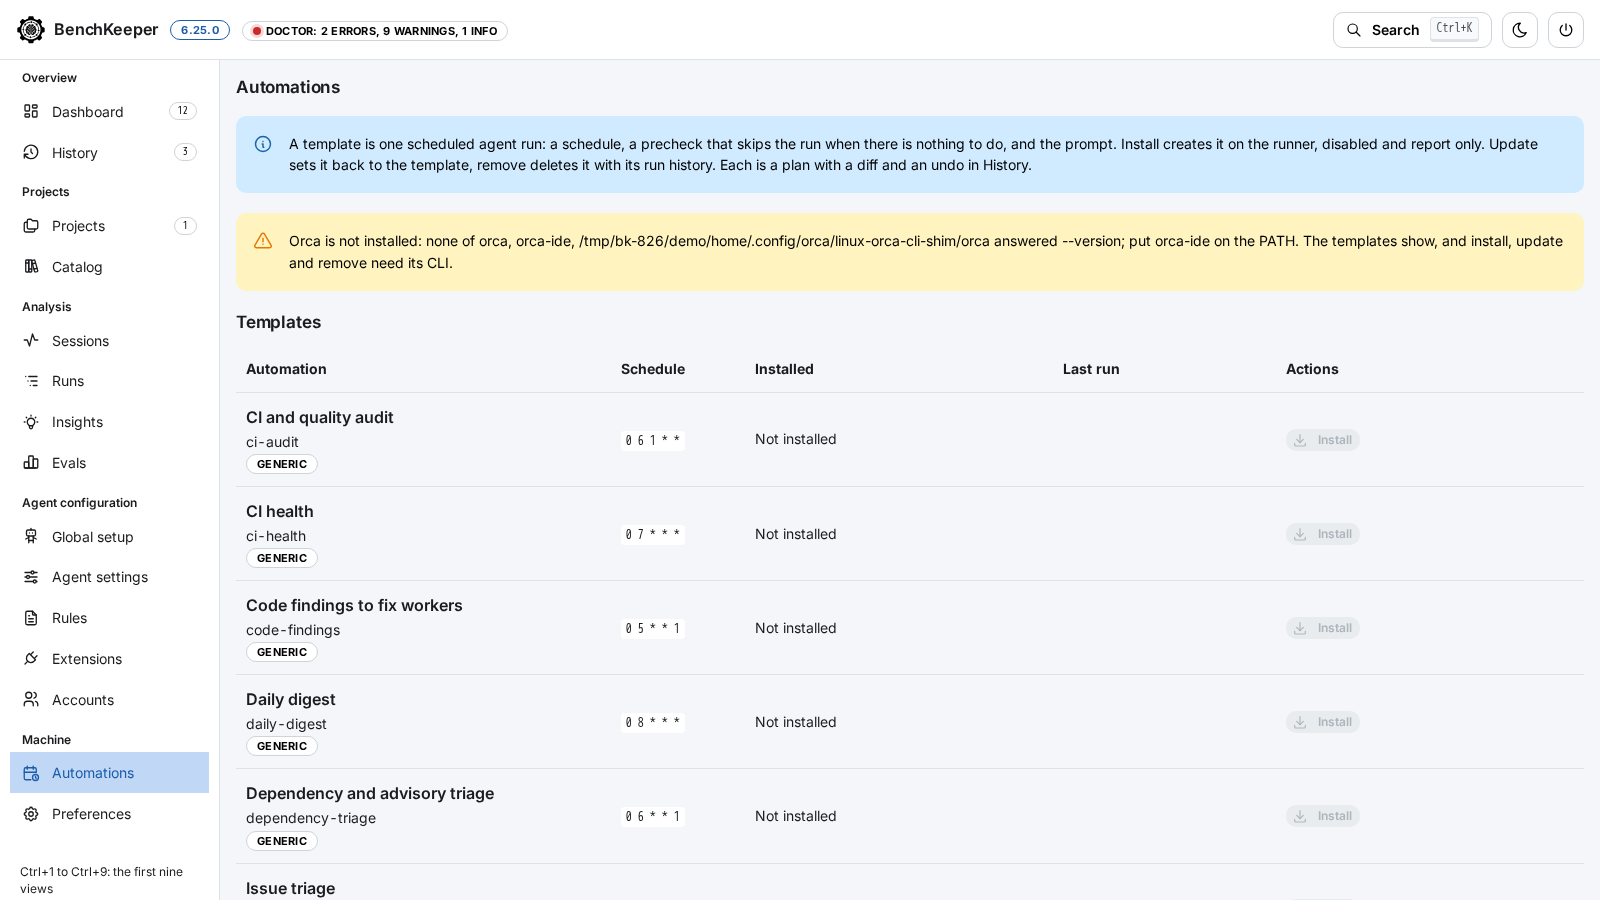
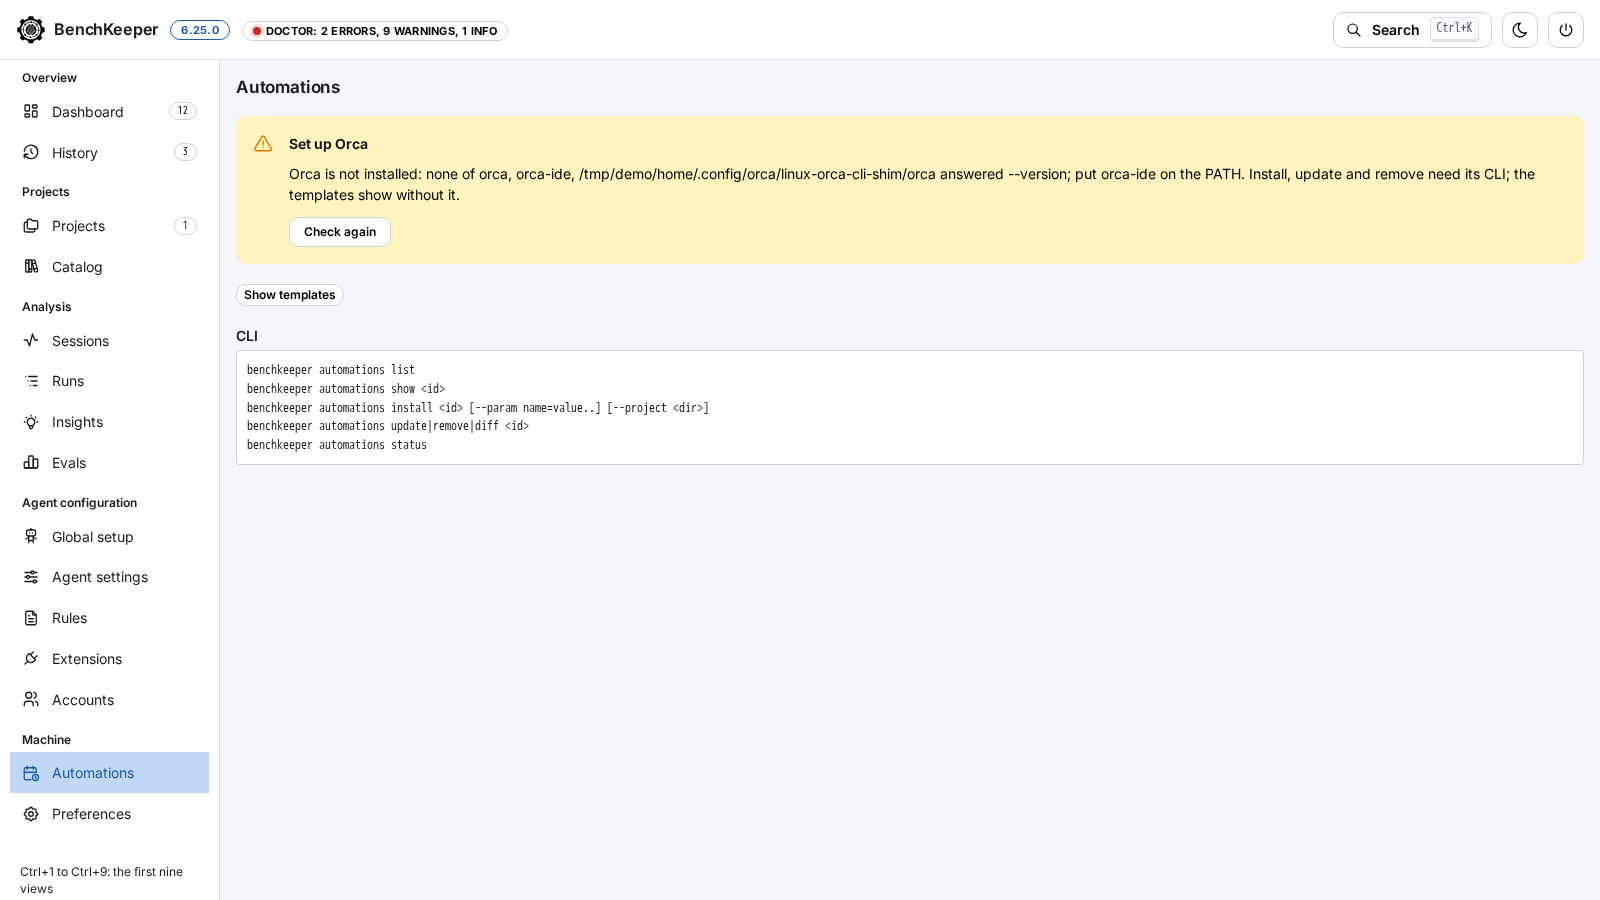
feat(app): one setup panel in Automations when the runner is missing
Without the runner the view shows one panel with the runner's note (the
setup step) and a Check again button; the explanation of templates and
the templates table move behind Show templates. With the runner present
the view is unchanged.

Check again asks the server for a fresh read (fresh=1), since the
automations view is otherwise kept for 15 seconds.

Refs #808

diff --git a/app/ui/automations.jsx b/app/ui/automations.jsx
@@ -3,7 +3,7 @@ import { IconDownload, IconRefresh, IconTrash } from '@tabler/icons-react';
 import { useEffect, useRef, useState } from 'react';
 import { api } from './api.js';
 import { Cli, Plan, PlanClose, PlanDropped, Section, usePlanRunning } from './parts.jsx';
-import { Dot, Loading, Note, icon, useApi } from './shell.jsx';
+import { Dot, Folded, Loading, Note, icon, useApi } from './shell.jsx';
 
 const TIER = { generic: 'generic', user: 'private' };
 const STATE = { current: ['teal', 'matches the template'], outdated: ['yellow', 'template changed'], modified: ['yellow', 'changed on the runner'], removed: ['red', 'gone from the runner'], unknown: ['gray', 'unknown'] };
@@ -78,49 +78,63 @@ export function Automations({ overview, refresh }) {
     try { const p = await api('/api/automations-plan', body); if (idle()) { setPending({ plan: p, why: `You asked to ${body.op} this automation in Automations.` }); setForm(null); } } catch (e) { setError(e.message); }
   };
   const done = () => { state.reload(); refresh(); };
+  const [checking, setChecking] = useState(false);
+  // The server keeps the view for 15 seconds; Check again reads the runner anew.
+  const check = () => { setChecking(true); api('/api/automations?fresh=1').catch(() => {}).finally(() => { setChecking(false); state.reload(); }); };
+  const intro = <Note>A template is one scheduled agent run: a schedule, a precheck that skips the run when there is nothing to do, and the prompt. Install creates it on the runner, disabled and report only. Update sets it back to the template, remove deletes it with its run history. Each is a plan with a diff and an undo in History.</Note>;
   return (
     <Stack gap="lg">
-      <Note>A template is one scheduled agent run: a schedule, a precheck that skips the run when there is nothing to do, and the prompt. Install creates it on the runner, disabled and report only. Update sets it back to the template, remove deletes it with its run history. Each is a plan with a diff and an undo in History.</Note>
       {error && <Note color="red" title="Not planned">{error}</Note>}
       <Loading state={state} label="automations">
         {(data) => {
           const open = data.automations.find((a) => a.id === form);
+          const templates = (
+            <Section title="Templates">
+              {data.automations.length === 0
+                ? <Text>No template yet. Put your own in <Code>automations/</Code> of the config folder.</Text>
+                : (
+                  <Table.ScrollContainer minWidth={760} scrollAreaProps={{ viewportProps: { tabIndex: 0, role: 'region', 'aria-label': 'Automations, scrollable' } }}>
+                    <Table aria-label="Automations" verticalSpacing="sm">
+                      <Table.Thead><Table.Tr><Table.Th>Automation</Table.Th><Table.Th>Schedule</Table.Th><Table.Th>Installed</Table.Th><Table.Th>Last run</Table.Th><Table.Th>Actions</Table.Th></Table.Tr></Table.Thead>
+                      <Table.Tbody>
+                        {data.automations.map((a) => {
+                          const name = a.template?.title ?? a.installed?.name ?? a.id;
+                          return (
+                            <Table.Tr key={a.id}>
+                              <Table.Td><Stack gap={2}><Text fw={600}>{name}</Text><Text size="sm">{a.id}</Text>{a.template ? <Badge variant="default" miw="max-content">{TIER[a.template.tier]}</Badge> : <Badge variant="default" miw="max-content">template missing</Badge>}</Stack></Table.Td>
+                              <Table.Td>{a.template ? <Code>{a.template.schedule || 'on demand'}</Code> : null}</Table.Td>
+                              <Table.Td miw={220}>{a.installed ? <Installed i={a.installed} /> : <Text size="sm">Not installed</Text>}</Table.Td>
+                              <Table.Td miw={160}>{a.installed ? <LastRun runs={a.installed.runs} /> : null}</Table.Td>
+                              <Table.Td miw={220}>
+                                <Group gap="xs">
+                                  {!a.installed && a.template && <Button size="compact-xs" leftSection={icon(IconDownload)} aria-label={`Install ${name}`} disabled={!data.runner.installed || !a.template.schedule || !a.template.precheck.trim()} onClick={() => setForm(a.id)}>Install</Button>}
+                                  {a.installed?.state === 'removed' && a.template && <Button size="compact-xs" leftSection={icon(IconDownload)} aria-label={`Install ${name} again`} disabled={!data.runner.installed} onClick={() => setForm(a.id)}>Install again</Button>}
+                                  {a.installed && a.installed.state !== 'removed' && <Button size="compact-xs" variant="default" leftSection={icon(IconRefresh)} aria-label={`Update ${name}`} disabled={!data.runner.installed || !a.template} onClick={() => plan({ op: 'update', id: a.id })}>Update</Button>}
+                                  {a.installed && <Button size="compact-xs" variant="default" color="red" leftSection={icon(IconTrash)} aria-label={`Remove ${name}`} disabled={!data.runner.installed} onClick={() => plan({ op: 'remove', id: a.id })}>Remove</Button>}
+                                </Group>
+                              </Table.Td>
+                            </Table.Tr>
+                          );
+                        })}
+                      </Table.Tbody>
+                    </Table>
+                  </Table.ScrollContainer>
+                )}
+            </Section>
+          );
           return (
             <Stack gap="lg">
-              {!data.runner.installed && <Note color="yellow">{data.runner.note}. The templates show, and install, update and remove need its CLI.</Note>}
+              {/* Without the runner its one setup step leads; the templates and what they are wait behind Show templates. */}
+              {data.runner.installed ? intro : (
+                <Note color="yellow" title={`Set up ${data.runner.name}`} styles={{ title: { color: 'var(--mantine-color-text)' } }}>
+                  <Stack gap="sm">
+                    <Text size="sm">{data.runner.note}. Install, update and remove need its CLI; the templates show without it.</Text>
+                    <Group><Button size="xs" variant="default" onClick={check} loading={checking || state.loading}>Check again</Button></Group>
+                  </Stack>
+                </Note>
+              )}
               {data.errors.map((e) => <Note color="red" title="Template not loaded" key={e.file}><Code style={{ overflowWrap: 'anywhere' }}>{e.file}</Code>: {e.message}</Note>)}
-              <Section title="Templates">
-                {data.automations.length === 0
-                  ? <Text>No template yet. Put your own in <Code>automations/</Code> of the config folder.</Text>
-                  : (
-                    <Table.ScrollContainer minWidth={760} scrollAreaProps={{ viewportProps: { tabIndex: 0, role: 'region', 'aria-label': 'Automations, scrollable' } }}>
-                      <Table aria-label="Automations" verticalSpacing="sm">
-                        <Table.Thead><Table.Tr><Table.Th>Automation</Table.Th><Table.Th>Schedule</Table.Th><Table.Th>Installed</Table.Th><Table.Th>Last run</Table.Th><Table.Th>Actions</Table.Th></Table.Tr></Table.Thead>
-                        <Table.Tbody>
-                          {data.automations.map((a) => {
-                            const name = a.template?.title ?? a.installed?.name ?? a.id;
-                            return (
-                              <Table.Tr key={a.id}>
-                                <Table.Td><Stack gap={2}><Text fw={600}>{name}</Text><Text size="sm">{a.id}</Text>{a.template ? <Badge variant="default" miw="max-content">{TIER[a.template.tier]}</Badge> : <Badge variant="default" miw="max-content">template missing</Badge>}</Stack></Table.Td>
-                                <Table.Td>{a.template ? <Code>{a.template.schedule || 'on demand'}</Code> : null}</Table.Td>
-                                <Table.Td miw={220}>{a.installed ? <Installed i={a.installed} /> : <Text size="sm">Not installed</Text>}</Table.Td>
-                                <Table.Td miw={160}>{a.installed ? <LastRun runs={a.installed.runs} /> : null}</Table.Td>
-                                <Table.Td miw={220}>
-                                  <Group gap="xs">
-                                    {!a.installed && a.template && <Button size="compact-xs" leftSection={icon(IconDownload)} aria-label={`Install ${name}`} disabled={!data.runner.installed || !a.template.schedule || !a.template.precheck.trim()} onClick={() => setForm(a.id)}>Install</Button>}
-                                    {a.installed?.state === 'removed' && a.template && <Button size="compact-xs" leftSection={icon(IconDownload)} aria-label={`Install ${name} again`} disabled={!data.runner.installed} onClick={() => setForm(a.id)}>Install again</Button>}
-                                    {a.installed && a.installed.state !== 'removed' && <Button size="compact-xs" variant="default" leftSection={icon(IconRefresh)} aria-label={`Update ${name}`} disabled={!data.runner.installed || !a.template} onClick={() => plan({ op: 'update', id: a.id })}>Update</Button>}
-                                    {a.installed && <Button size="compact-xs" variant="default" color="red" leftSection={icon(IconTrash)} aria-label={`Remove ${name}`} disabled={!data.runner.installed} onClick={() => plan({ op: 'remove', id: a.id })}>Remove</Button>}
-                                  </Group>
-                                </Table.Td>
-                              </Table.Tr>
-                            );
-                          })}
-                        </Table.Tbody>
-                      </Table>
-                    </Table.ScrollContainer>
-                  )}
-              </Section>
+              {data.runner.installed ? templates : <Folded title="Templates" label={['Show templates', 'Hide templates']} name="templates"><Stack gap="lg">{intro}{templates}</Stack></Folded>}
               {open && (
                 <Section title={`Install ${open.template.title}`}>
                   {projects.length

diff --git a/web/src/components/AppPage.tsx b/web/src/components/AppPage.tsx
@@ -156,7 +156,7 @@ export const VIEWS: { id: string; view: string; title: string; shot: string; alt
   },
   {
     id: 'automations', view: 'automations', title: 'Automations', shot: 'automations',
-    alt: 'The Automations view: what a template is, a note that the runner is not installed, then the templates table with each automation\'s name, id and tier, its schedule, whether it is installed, its last run and an Install button.',
+    alt: 'The Automations view without the runner: one panel with the single setup step and a Check again button, a Show templates button for the templates table, then the CLI commands.',
     text: [
       'A template is one scheduled agent run: a schedule, a precheck that skips the run when there is nothing to do, and the prompt. The generic templates come with the app; your own go in automations/ of the config folder.',
       'Install creates the automation on the runner, disabled and report only, in a registered project. Update sets it back to the template, Remove deletes it with its run history. Undo of a removal restores the local record only: the runner keeps no copy, so install it again to create a new automation. Each is a plan with a diff and an undo in History, and the table shows whether the runner\'s copy still matches the template.',
